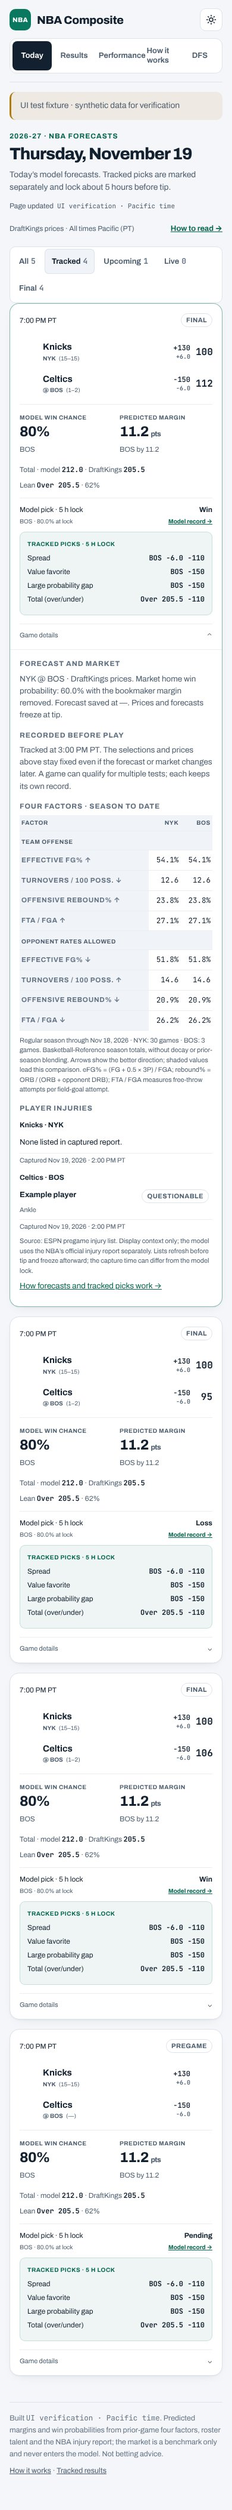
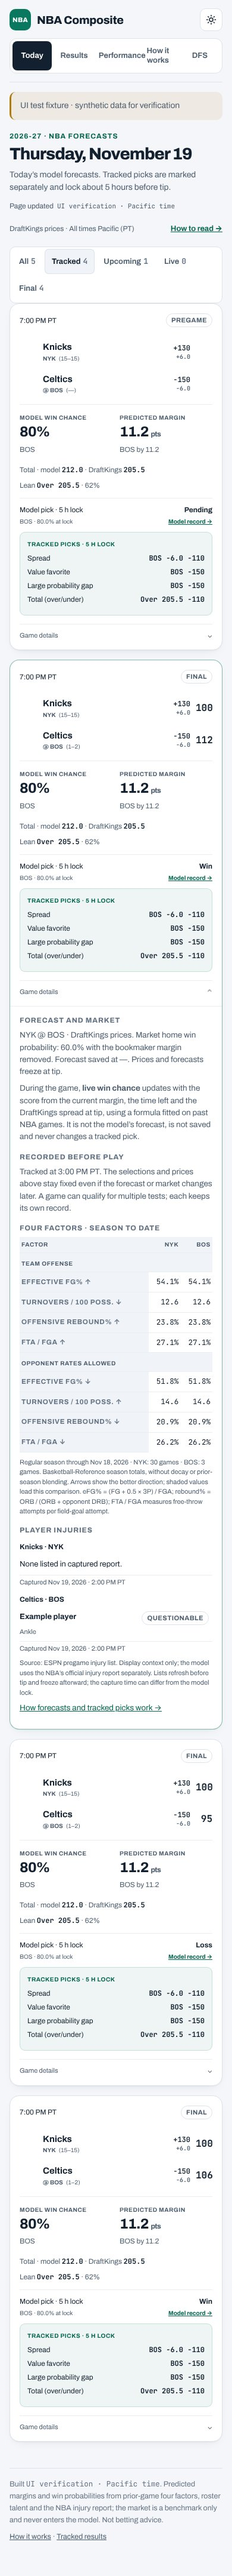
Today: live games first, finished games move to the bottom
Owner request (2026-11-07). Today's cards are ordered live, then
upcoming, then final, in tip order within each. The build puts games
already final at the bottom; in the browser FILTER_JS re-sorts whenever
the live-score overlay changes a game's state (on load and on every
30 s refresh), and moves nothing when the order is unchanged, so a game
that ends drops below the ones still in play without a reload. Cards
carry their tip order as data-order.

Tests: the build order (unfinished first, finals in tip order). The
browser check confirms a live game is listed first and, when it ends,
moves down to its tip position among the finals; the matchup-context
step now opens fixture-0 by id. On the real 2026-11-06 slate the two live
games led and the seven finals followed in tip order. CLAUDE.md notes it.

Claude-Session: https://claude.ai/code/session_01Tymo9CzGMxX6H3C7yoJrYC

diff --git a/public_site.py b/public_site.py
@@ -124,8 +124,16 @@ CSS = """
 .public-table td:first-child{grid-column:1/-1;font-size:16px;font-weight:700}.public-empty{padding:22px}.guide section{padding:18px}.nav a{min-height:42px;display:grid;place-items:center}}
 """
 
+# Today's filter bar and card order (owner request, 2026-11-07): live games
+# first, then upcoming, then final, tip order (data-order) within each; it
+# re-sorts whenever the live-score overlay changes a card's state
+# (window.nbaCount) and moves nothing when the order is unchanged.
 FILTER_JS = """<script>(function(){var bar=document.querySelector('[data-filter]');if(!bar)return;bar.hidden=false;
-var filter='all';function update(){var c={all:0,tracked:0,upcoming:0,live:0,final:0};
+var grid=document.querySelector('.tool-grid[data-slate]'),rank={live:0,upcoming:1,final:2};
+function order(){if(!grid)return;var cs=[].slice.call(grid.querySelectorAll(':scope>.gcard')),
+s=cs.slice().sort(function(a,b){return(rank[a.dataset.state]-rank[b.dataset.state])||(a.dataset.order-b.dataset.order);});
+if(s.some(function(x,i){return x!==cs[i];}))s.forEach(function(x){grid.appendChild(x);});}
+var filter='all';function update(){order();var c={all:0,tracked:0,upcoming:0,live:0,final:0};
 document.querySelectorAll('.gcard').forEach(function(x){var s=x.dataset.state;c.all++;c[s]++;if(x.dataset.tracked==='1')c.tracked++;
 x.hidden=filter==='tracked'?x.dataset.tracked!=='1':filter!=='all'&&s!==filter;});
 bar.querySelectorAll('button').forEach(function(b){var k=b.dataset.show;b.querySelector('.ct').textContent=c[k];b.setAttribute('aria-pressed',k===filter?'true':'false');});
@@ -237,7 +245,7 @@ class PublicSite:
         return (f"<div class='ou-readout'><span>Total · model <b>{T:.1f}</b>"
                 + (f" · {book}" if book else "") + f"</span>{lean}</div>")
 
-    def card(self, row):
+    def card(self, row, order=None):
         u = self.ui
         number = lambda k: pd.to_numeric(row.get(k), errors="coerce")
         p = number("p_home")
@@ -312,7 +320,8 @@ class PublicSite:
             detail += "<p>The model includes the NBA injury report available when this forecast was saved.</p>"
         detail += self.factor_details(row, context) + self.injury_details(row)
         detail += "<p><a href='how-it-works.html'>How forecasts and tracked picks work →</a></p>"
-        return (f"<details class='gcard tool-card' data-gid='{u.esc(row.game_id)}' data-tracked='{int(bool(recs))}' data-state='{'final' if final else 'upcoming'}'{live_spread}>"
+        order_attr = f" data-order='{int(order)}'" if order is not None else ""
+        return (f"<details class='gcard tool-card' data-gid='{u.esc(row.game_id)}' data-tracked='{int(bool(recs))}' data-state='{'final' if final else 'upcoming'}'{order_attr}{live_spread}>"
                 f"<summary><div class='g-meta'><span>{u.tip_pt(row.tip_utc)}</span><span class='badge st'>{status}</span></div>"
                 + "".join(teams) + live + forecast + tracking
                 + "<span class='details-cue'>Game details<i aria-hidden='true'>⌄</i></span></summary>"
@@ -408,7 +417,13 @@ class PublicSite:
             body += "<div class='seg' data-filter role='group' aria-label='Filter games' hidden>" + "".join(
                 f"<button type='button' data-show='{key}' aria-pressed='{'true' if key == 'all' else 'false'}'>{name}<span class='ct'>0</span></button>"
                 for key,name in (("all","All"),("tracked","Tracked"),("upcoming","Upcoming"),("live","Live"),("final","Final"))) + "</div>"
-            body += f"<div class='tool-grid' data-slate='{u.esc(self.today)}'>" + "".join(self.card(r) for _,r in day.sort_values("tip_utc").iterrows()) + "</div>"
+            # tip order, games already final at the bottom (the browser keeps
+            # live games first and re-sorts as states change: FILTER_JS)
+            rows = list(day.sort_values("tip_utc", kind="stable").iterrows())
+            done = [np.isfinite(pd.to_numeric(r.get("home_won"), errors="coerce")) for _, r in rows]
+            cards = sorted(((bool(f), i, self.card(r, i)) for i, ((_, r), f) in enumerate(zip(rows, done))),
+                           key=lambda t: (t[0], t[1]))
+            body += f"<div class='tool-grid' data-slate='{u.esc(self.today)}'>" + "".join(c for *_, c in cards) + "</div>"
             body += ("<div class='public-empty' data-filter-empty hidden><p>No games match this filter.</p></div>"
                      + FILTER_JS + live_wp.script(self.live_fit) + u.SCORES_JS)
         return self.page("Today · NBA Composite", "index.html", body)

diff --git a/research/check_public_ui.py b/research/check_public_ui.py
@@ -178,7 +178,7 @@ def main():
                     page.locator('[data-show="tracked"]').click()
                     assert page.locator('.gcard:visible').count()==4
                     assert page.get_by_text('Tracked picks · 5 h lock').count()==4
-                    page.locator('.gcard summary').first.click()
+                    page.locator('[data-gid="fixture-0"] summary').click()
                     assert page.get_by_role('heading',name='Recorded before play',exact=True).is_visible()
                     card = page.locator('[data-gid="fixture-0"]')
                     assert card.locator('.team-record').all_inner_texts() == ['(15–15)', '(1–2)']
@@ -346,6 +346,10 @@ def main():
                 page.goto(f'{base}/fixture/index.html')
                 live.locator('.st').filter(has_text='Q2 4:00').wait_for()
                 assert len(calls) == 1, calls
+                cards = "els => els.map(e => e.dataset.gid)"
+                # card order: live first, then upcoming, then final (tip order within)
+                assert page.eval_on_selector_all('.tool-grid > .gcard', cards) == \
+                    ['fixture-3', 'fixture-0', 'fixture-1', 'fixture-2', 'fixture-4']
                 page.clock.run_for(31_000)
                 live.locator('.st').filter(has_text='Q3 7:30').wait_for()
                 assert len(calls) == 2
@@ -366,11 +370,14 @@ def main():
                 assert len(calls) == 4 and box.is_hidden()
                 assert live.get_attribute('data-state') == 'final'
                 assert live.locator('.sc[data-side="home"]').inner_text() == '101'
+                # the game that just ended moves down to its tip position among the finals
+                assert page.eval_on_selector_all('.tool-grid > .gcard', cards) == \
+                    ['fixture-0', 'fixture-1', 'fixture-2', 'fixture-3', 'fixture-4']
                 page.clock.run_for(30 * 60_000)
                 assert len(calls) == 4, 'polling continued after the final'
                 checks.append(f'Auto-refresh · a live game re-fetched every 30 s (Q2 4:00 → Q3 7:30, BOS {fmt(ph)}; '
                               f'Q4 0:45.5 tied, BOS {fmt(ph4)}); a hidden tab waited and caught up when shown; '
-                              'the final hid the live readout and polling stopped')
+                              'the final hid the live readout, moved the card down among the finals and stopped the polling')
                 # opened before tip: the next fetch comes at the tip, then 30 s
                 pre = event('pre', 'STATUS_SCHEDULED', 0, '0:00', 0, 0)
                 pre['date'] = '2026-11-20T03:04:00Z'

diff --git a/tests/test_public_site.py b/tests/test_public_site.py
@@ -132,3 +132,22 @@ def test_unavailable_probability_and_market_render_without_a_false_tracked_pick(
     assert 'Forecast unavailable' in site.today_page()
     assert 'Tracked picks ·' not in site.today_page()
     assert not site.records
+
+
+def test_today_lists_unfinished_games_first_then_finals_in_tip_order():
+    """Owner request (2026-11-07): live and upcoming games above finished
+    ones; the browser re-sorts as states change (FILTER_JS)."""
+    import re
+    g = rows().assign(home_won=[1, np.nan, 0, np.nan, 1, 1], slate_date='2026-11-19',
+                      tip_utc=['2026-11-20T03:00Z', '2026-11-20T02:00Z', '2026-11-20T01:00Z',
+                               '2026-11-20T00:30Z', '2026-11-20T00:00Z', '2026-11-20T03:30Z'])
+    html = PublicSite(ui, g, '2026-11-19', 'built').today_page()
+    cards = re.findall(r"<details class='gcard tool-card' data-gid='([^']+)' data-tracked='\d' "
+                       r"data-state='(\w+)' data-order='(\d+)'", html)
+    gid = list(g.game_id.astype(str))
+    # tip order 4, 3, 2, 1, 0, 5; unfinished 3 and 1 first, then the finals
+    assert [c[0] for c in cards] == [gid[3], gid[1], gid[4], gid[2], gid[0], gid[5]]
+    assert [c[1] for c in cards] == ['upcoming', 'upcoming', 'final', 'final', 'final', 'final']
+    assert [int(c[2]) for c in cards] == [1, 3, 0, 2, 4, 5]
+    js = __import__('public_site').FILTER_JS
+    assert 'rank={live:0,upcoming:1,final:2}' in js and 'function update(){order();' in js

diff --git a/CLAUDE.md b/CLAUDE.md
@@ -422,6 +422,9 @@ information only, separate from DraftKings and native evidence.
   The open page re-fetches ESPN's scoreboard every 30 s while one of its
   games is in progress (owner request, 2026-11-07), at each tip before
   that, and not once every game is final; a hidden tab waits.
+  Today lists live games first, then upcoming, then final (tip order within
+  each), re-sorting as the overlay changes a game's state (owner request,
+  2026-11-07).
 
 - Read `docs/model_guidelines.md` before a model or rule change. The model
   is `MODEL.md` / `nba_composite.py`; prices are `market.py`; pregame locks
